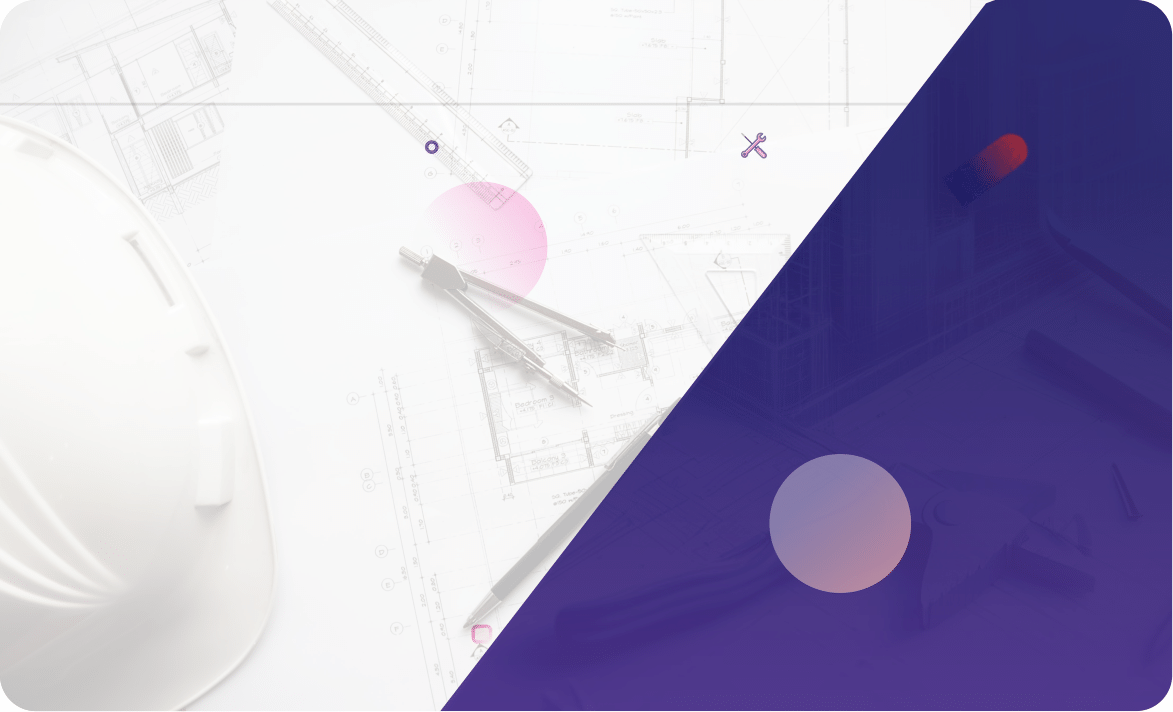
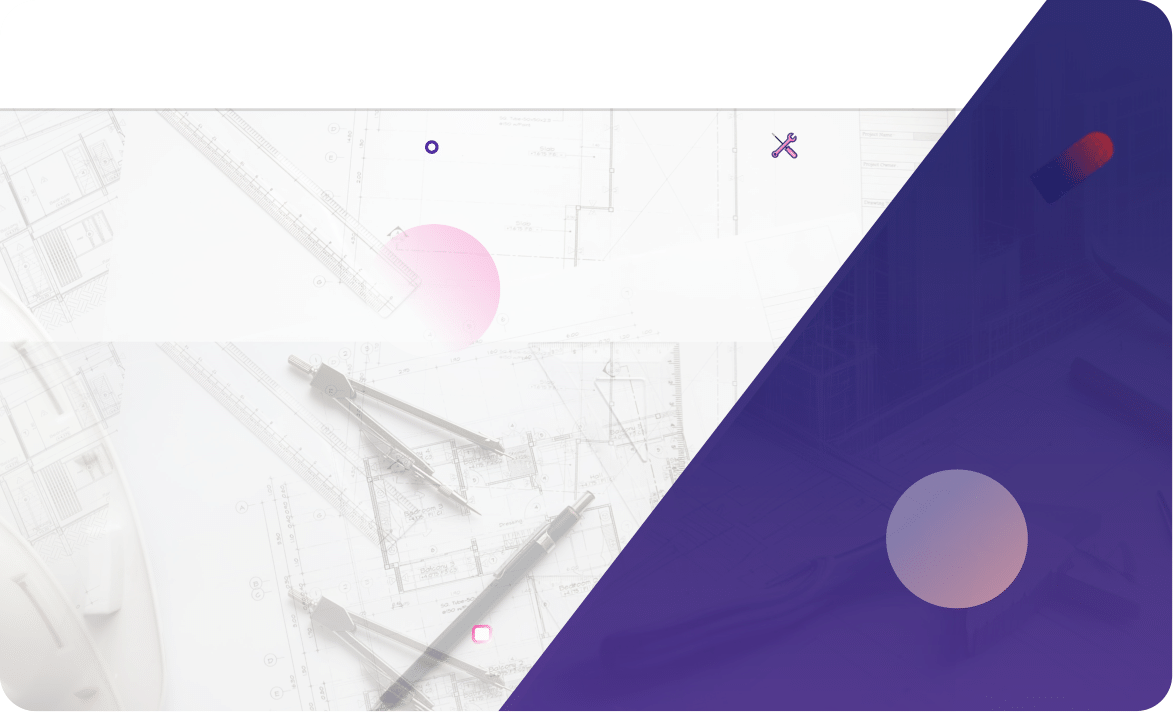
navbar shifting

diff --git a/src/components/HeroSection.jsx b/src/components/HeroSection.jsx
@@ -1,3 +1,87 @@
+// import { useState, useEffect } from 'react';
+// import 'tailwindcss/tailwind.css';
+// import { FontAwesomeIcon } from '@fortawesome/react-fontawesome';
+// import { faPhone, faEnvelope } from '@fortawesome/free-solid-svg-icons';
+
+// const HeroSection = () => {
+//   const [currentPhotoIndex, setCurrentPhotoIndex] = useState(0);
+//   const photos = [
+//     'https://cgu-odisha.ac.in/wp-content/uploads/2023/05/diversityandinclusionincivilengineering3.jpg',
+//     'https://st.depositphotos.com/1154952/4624/i/450/depositphotos_46247795-stock-photo-engineer-working-table-plan-home.jpg',
+//     'https://storables.com/wp-content/uploads/2023/11/why-is-it-called-civil-engineering-1699953005.jpg'
+//   ];
+
+//   useEffect(() => {
+//     const interval = setInterval(() => {
+//       setCurrentPhotoIndex((prevIndex) => (prevIndex + 1) % photos.length);
+//     }, 3000);
+//     return () => clearInterval(interval);
+//   }, [photos.length]);
+
+//   return (
+//     <div className="relative min-h-screen bg-cover bg-center p-2 md:p-4 pt-10 mt-20 ml-4 md:ml-32">
+//       <div className="info md:flex md:flex-col mt-4">
+//         <p className="date text-pink-600 font-semibold text-2xl md:text-3xl">DECEMBER 27-30, 2025 | NITJ</p>
+//         <p className="ii text-3xl md:text-5xl font-bold mt-2 md:mt-4">Indian Geotechnical</p>
+//         <p className="chem text-5xl md:text-7xl font-bold">CONFERENCE</p>
+//         <p className="ii text-3xl md:text-5xl font-bold">2024</p>
+//         <br />
+//         <div className="info0 bg-gradient-to-r from-pink-500 to-purple-600 text-white p-1 md:p-3 text-center rounded-full mt-2 md:mt-4 max-w-[500px] " style={{ fontFamily: 'Inter' }}>
+//           <p className="text-lg md:text-2xl">
+          
+//             Role of Chemical Engineering towards Development and Atmanirbhar bharat</p>
+//         </div>
+//       </div>
+
+//       <div className="organi md:flex md:flex-row md:items-center md:mt-2 ml-4">
+//         <p className="by font-light">
+//           <br />
+//           Organized by:</p>
+//         <div className="ml-4 flex flex-col justify-center">
+//           <p className="iic font-semibold">
+//             <br />
+//             Indian Institute of Chemical Engineers,<br /><span>Doaba Regional Centre NIT JALANDHAR</span></p>
+//         </div>
+//       </div>
+
+//       <div className="button flex flex-col md:flex-row items-center space-y-2 md:space-y-0 md:space-x-4 ml-4 md:ml-20 mt-7">
+//         <div className="register bg-pink-500 px-6 text-white py-0.5 md:p-3 rounded-lg flex justify-center items-center hover:scale-110 transition-transform text-xl">Register</div>
+//         <div className="view bg-white text-pink-500 py-0.5 px-6 border border-pink-500 p-3 md:p-3 rounded-lg flex justify-center items-center hover:scale-110 transition-transform text-xl">View Details</div>
+//       </div>
+
+//       <div className="bg-transparent flex flex-col md:flex-row gap-2 md:gap-4 items-center max-w-[600px] mt-5 ml-4 md:ml-20">
+//         <div className="flex flex-col justify-center items-center max-w-[700px]">
+//           <p className="font-semibold text-center">77<sup>th</sup> Annual Session</p>
+//           <img src="/logo77th.jpg" className="w-12 md:w-16" alt="" />
+//           <p className="font-bold text-center">Indian Institute Of Chemical Engineers</p>
+//         </div>
+//         <div className="flex flex-col justify-center max-w-[500px] items-center">
+//           <p className="font-semibold text-center">Organized At</p>
+//           <img src="/logo.png" className="w-12 md:w-16" alt="" />
+//           <p className="font-bold text-center">Dr. B R Ambedkar National Institute of Technology, Jalandhar</p>
+//         </div>
+//       </div>
+//       <div className="contact1 flex items-center absolute text-white bottom-14 md:bottom-20 right-6 md:right-10 space-x-2 hidden md:flex">
+//         <FontAwesomeIcon icon={faPhone} />
+//         <p>+9888895253</p>
+//       </div>
+
+//       <div className="contact2 flex items-center text-white absolute bottom-4 md:bottom-10 right-6 md:right-10 space-x-2 hidden md:flex">
+//         <FontAwesomeIcon icon={faEnvelope} />
+//         <p>chemcon2024@gmail.com</p>
+//       </div>
+
+
+//       {/* Conditionally render the photo animation */}
+//       <div className="photo-animation absolute top-5 md:top-3 right-5 md:right-20 w-60 h-60 md:w-80 md:h-80 rounded-full shadow-lg overflow-hidden hidden md:block">
+//         <img src={photos[currentPhotoIndex]} alt="Photo" className="w-full h-full object-cover rounded-full transition-opacity duration-500 ease-in-out" />
+//       </div>
+//     </div>
+//   ); 
+// };
+
+// export default HeroSection;
+
 import { useState, useEffect } from 'react';
 import 'tailwindcss/tailwind.css';
 import { FontAwesomeIcon } from '@fortawesome/react-fontawesome';
@@ -19,48 +103,39 @@ const HeroSection = () => {
   }, [photos.length]);
 
   return (
-    <div className="relative min-h-screen bg-cover bg-center p-2 md:p-4 pt-10 mt-20 ml-4 md:ml-32">
-      <div className="info md:flex md:flex-col">
+    
+    <div className="relative min-h-screen bg-cover bg-center p-2 md:p-4 pt-10 mt-10 ml-4 md:ml-32">
+      <div className="info md:flex md:flex-col mt-4 text-bold">
         <p className="date text-pink-600 font-semibold text-2xl md:text-3xl">DECEMBER 27-30, 2025 | NITJ</p>
         <p className="ii text-3xl md:text-5xl font-bold mt-2 md:mt-4">Indian Geotechnical</p>
         <p className="chem text-5xl md:text-7xl font-bold">CONFERENCE</p>
         <p className="ii text-3xl md:text-5xl font-bold">2024</p>
         <br />
-        <div className="info0 bg-gradient-to-r from-pink-500 to-purple-600 text-white p-1 md:p-3 text-center rounded-full mt-2 md:mt-4 max-w-[500px] " style={{ fontFamily: 'Inter' }}>
-          <p className="text-lg md:text-2xl">
-          
-            Role of Chemical Engineering towards Development and Atmanirbhar bharat</p>
+        <div className="info0 bg-gradient-to-r from-pink-500 to-purple-600 text-white p-1 md:p-3 text-center rounded-full mt-2 md:mt-4 max-w-[500px]" >
+          <p className="text-lg md:text-2xl">Role of Chemical Engineering towards Development and Atmanirbhar bharat</p>
         </div>
       </div>
-
-      <div className="organi md:flex md:flex-row md:items-center md:mt-2 ml-4">
-        <p className="by font-light">
-          <br />
-          Organized by:</p>
-        <div className="ml-4 flex flex-col justify-center">
-          <p className="iic font-semibold">
-            <br />
-            Indian Institute of Chemical Engineers,<br /><span>Doaba Regional Centre NIT JALANDHAR</span></p>
-        </div>
-      </div>
-
+      <br />
       <div className="button flex flex-col md:flex-row items-center space-y-2 md:space-y-0 md:space-x-4 ml-4 md:ml-20 mt-7">
         <div className="register bg-pink-500 px-6 text-white py-0.5 md:p-3 rounded-lg flex justify-center items-center hover:scale-110 transition-transform text-xl">Register</div>
         <div className="view bg-white text-pink-500 py-0.5 px-6 border border-pink-500 p-3 md:p-3 rounded-lg flex justify-center items-center hover:scale-110 transition-transform text-xl">View Details</div>
       </div>
+   
+      <div className="organi md:flex md:flex-row md:items-center md:mt-2 ml-4">
+        <p className="by font-semibold text-pink-500">
+          <br />
+          <br />
+          Organized by:</p>
 
-      <div className="bg-transparent flex flex-col md:flex-row gap-2 md:gap-4 items-center max-w-[600px] mt-5 ml-4 md:ml-20">
-        <div className="flex flex-col justify-center items-center max-w-[700px]">
-          <p className="font-semibold text-center">77<sup>th</sup> Annual Session</p>
-          <img src="/logo77th.jpg" className="w-12 md:w-16" alt="" />
-          <p className="font-bold text-center">Indian Institute Of Chemical Engineers</p>
-        </div>
-        <div className="flex flex-col justify-center max-w-[500px] items-center">
-          <p className="font-semibold text-center">Organized At</p>
-          <img src="/logo.png" className="w-12 md:w-16" alt="" />
-          <p className="font-bold text-center">Dr. B R Ambedkar National Institute of Technology, Jalandhar</p>
+        <div className="ml-4 flex flex-col justify-center">
+        <br />
+          <p className="iic font-bold">
+          <br />
+            Indian Institute of Chemical Engineers,<br /><span>Doaba Regional Centre NIT JALANDHAR</span></p>
         </div>
       </div>
+<br />
+     
       <div className="contact1 flex items-center absolute text-white bottom-14 md:bottom-20 right-6 md:right-10 space-x-2 hidden md:flex">
         <FontAwesomeIcon icon={faPhone} />
         <p>+9888895253</p>
@@ -70,12 +145,12 @@ const HeroSection = () => {
         <FontAwesomeIcon icon={faEnvelope} />
         <p>chemcon2024@gmail.com</p>
       </div>
+      <div className="photo-animation absolute top-30 md:top-20 right-100 md:right-20 w-96 h-96 md:w-120 md:h-120 rounded-full shadow-lg overflow-hidden hidden md:block">
+  <img src={photos[currentPhotoIndex]} alt="Photo" className="w-50% h-full object-cover rounded-full transition-opacity duration-500 ease-in-out" />
+</div>
 
 
-      {/* Conditionally render the photo animation */}
-      <div className="photo-animation absolute top-5 md:top-3 right-5 md:right-20 w-60 h-60 md:w-80 md:h-80 rounded-full shadow-lg overflow-hidden hidden md:block">
-        <img src={photos[currentPhotoIndex]} alt="Photo" className="w-full h-full object-cover rounded-full transition-opacity duration-500 ease-in-out" />
-      </div>
+
     </div>
   ); 
 };

diff --git a/src/pages/Home.jsx b/src/pages/Home.jsx
@@ -8,33 +8,31 @@ import AboutNews from "../components/AboutNews";
 import SponsorShip from "../components/Sponsorship";
 import { useEffect } from "react";
 import Slider from "../components/Slider";
+import Navbar from "../components/Navbar";
 
-import Navbar from "../components/Navbar"
-// import AboutNews from "./components/Dummy";
 function Home(props) {
   useEffect(() => {
     window.scrollTo(0, 0);
   }, []);
   return (
     <>
-    <div className="relative min-h-screen bg-cover bg-center p-2 md:p-4 pt-10  " style={{ backgroundImage: "url('/background.png')" }}>
-    
-    <div className=" top-0 w-screen z-40 ">
-        <Navbar />
-      </div>
-      
-    
-      <HeroSection confid={props.confId} />
+      <div
+        className="relative min-h-screen bg-cover bg-center p-2 md:p-4 pt-10 -mt-4 md:mt-0" // Adjust margin-top for mobile view
+        style={{ backgroundImage: "url('1.png')" }}
+      >
+        <div className="top-0 w-screen z-40">
+          <Navbar />
+        </div>
+        <HeroSection confid={props.confId} />
       </div>
       <AboutNews confid={props.confId} />
       <Slider confid={props.confId} />
       <Timeline confid={props.confId} />
       {/* <Speakers /> */}
-      <OurEvents confid={props.confId}  />
+      <OurEvents confid={props.confId} />
       <AboutNITJ confid={props.confId} />
       <SponsorShip confid={props.confId} />
       <Footer />
-      
     </>
   );
 }

diff --git a/src/components/Navbar/index.jsx b/src/components/Navbar/index.jsx
@@ -83,7 +83,7 @@ const Nav = () => {
   return (
     <>
       <nav className="bg-transparent fixed w-full z-10"></nav>
-      <div className="bg-transparent top-0 left-0 p-1 z-10 flex items-center w-full">
+      <div className="bg-transparent top-0 left-0 p-0 z-10 flex items-center w-full">
         <div className="md:hidden flex items-center justify-start">
           <button onClick={toggleNavbar} className="p-2">
             {isOpen ? <X size={24} /> : <Menu size={24} />}
